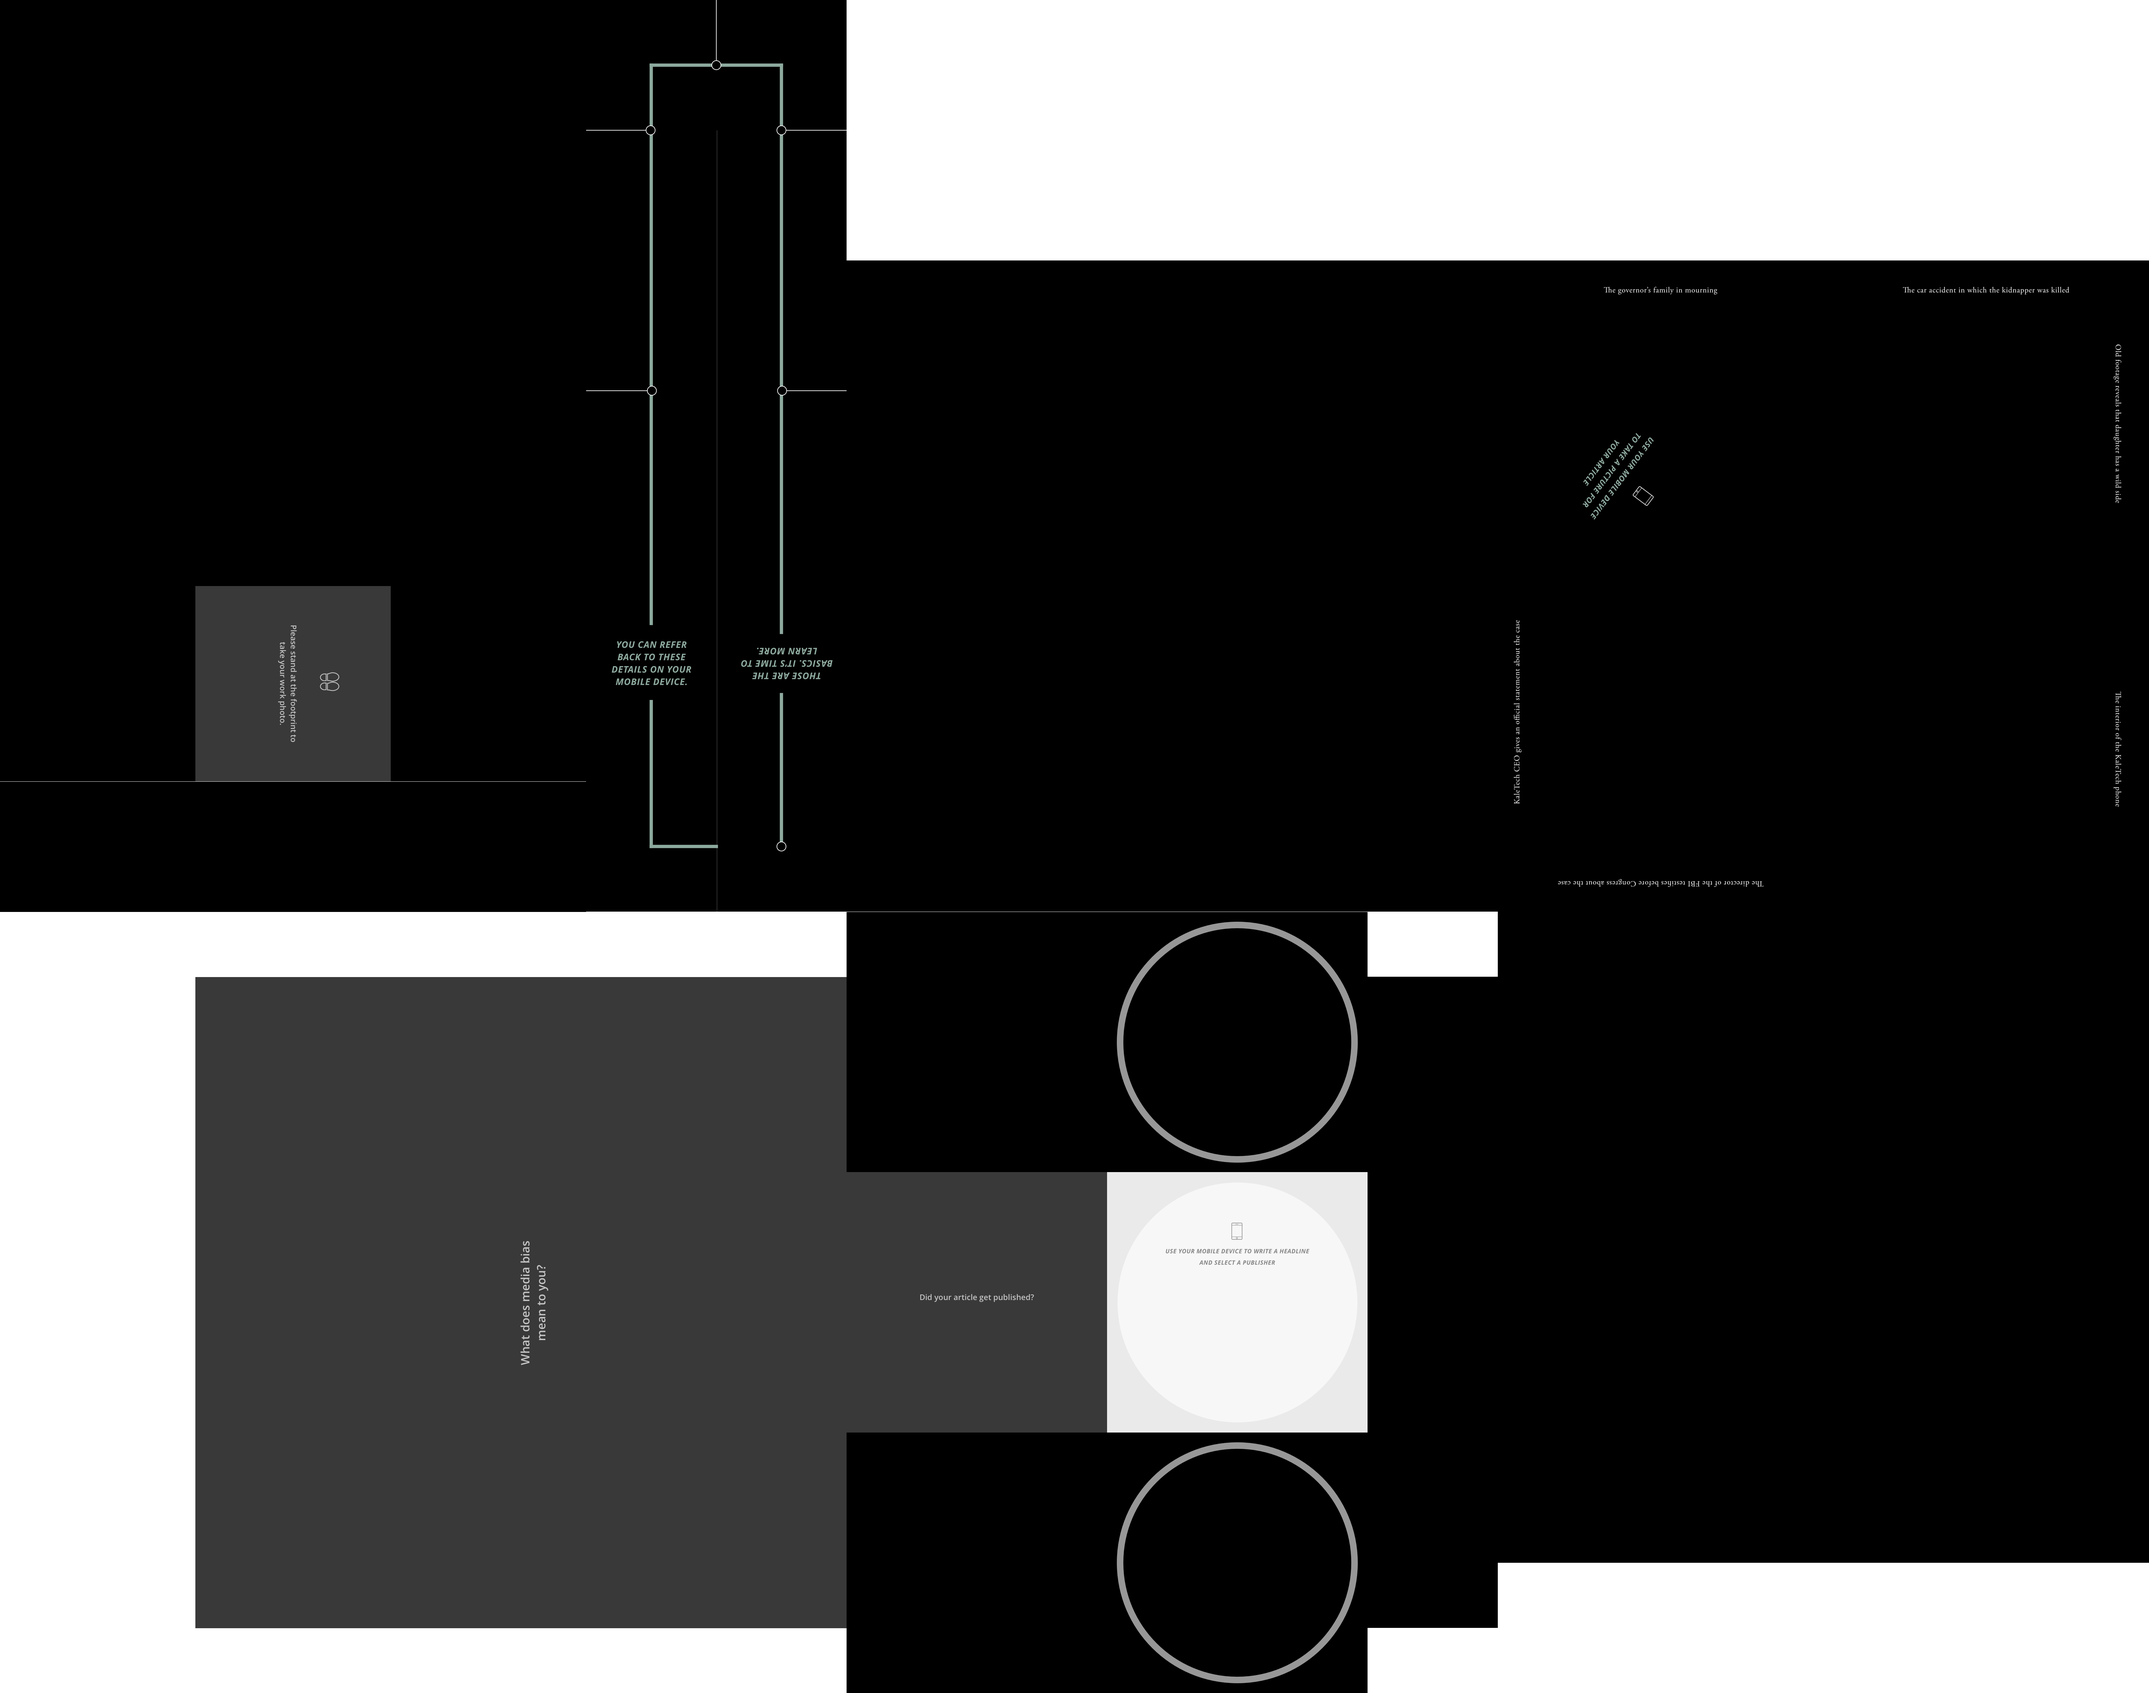
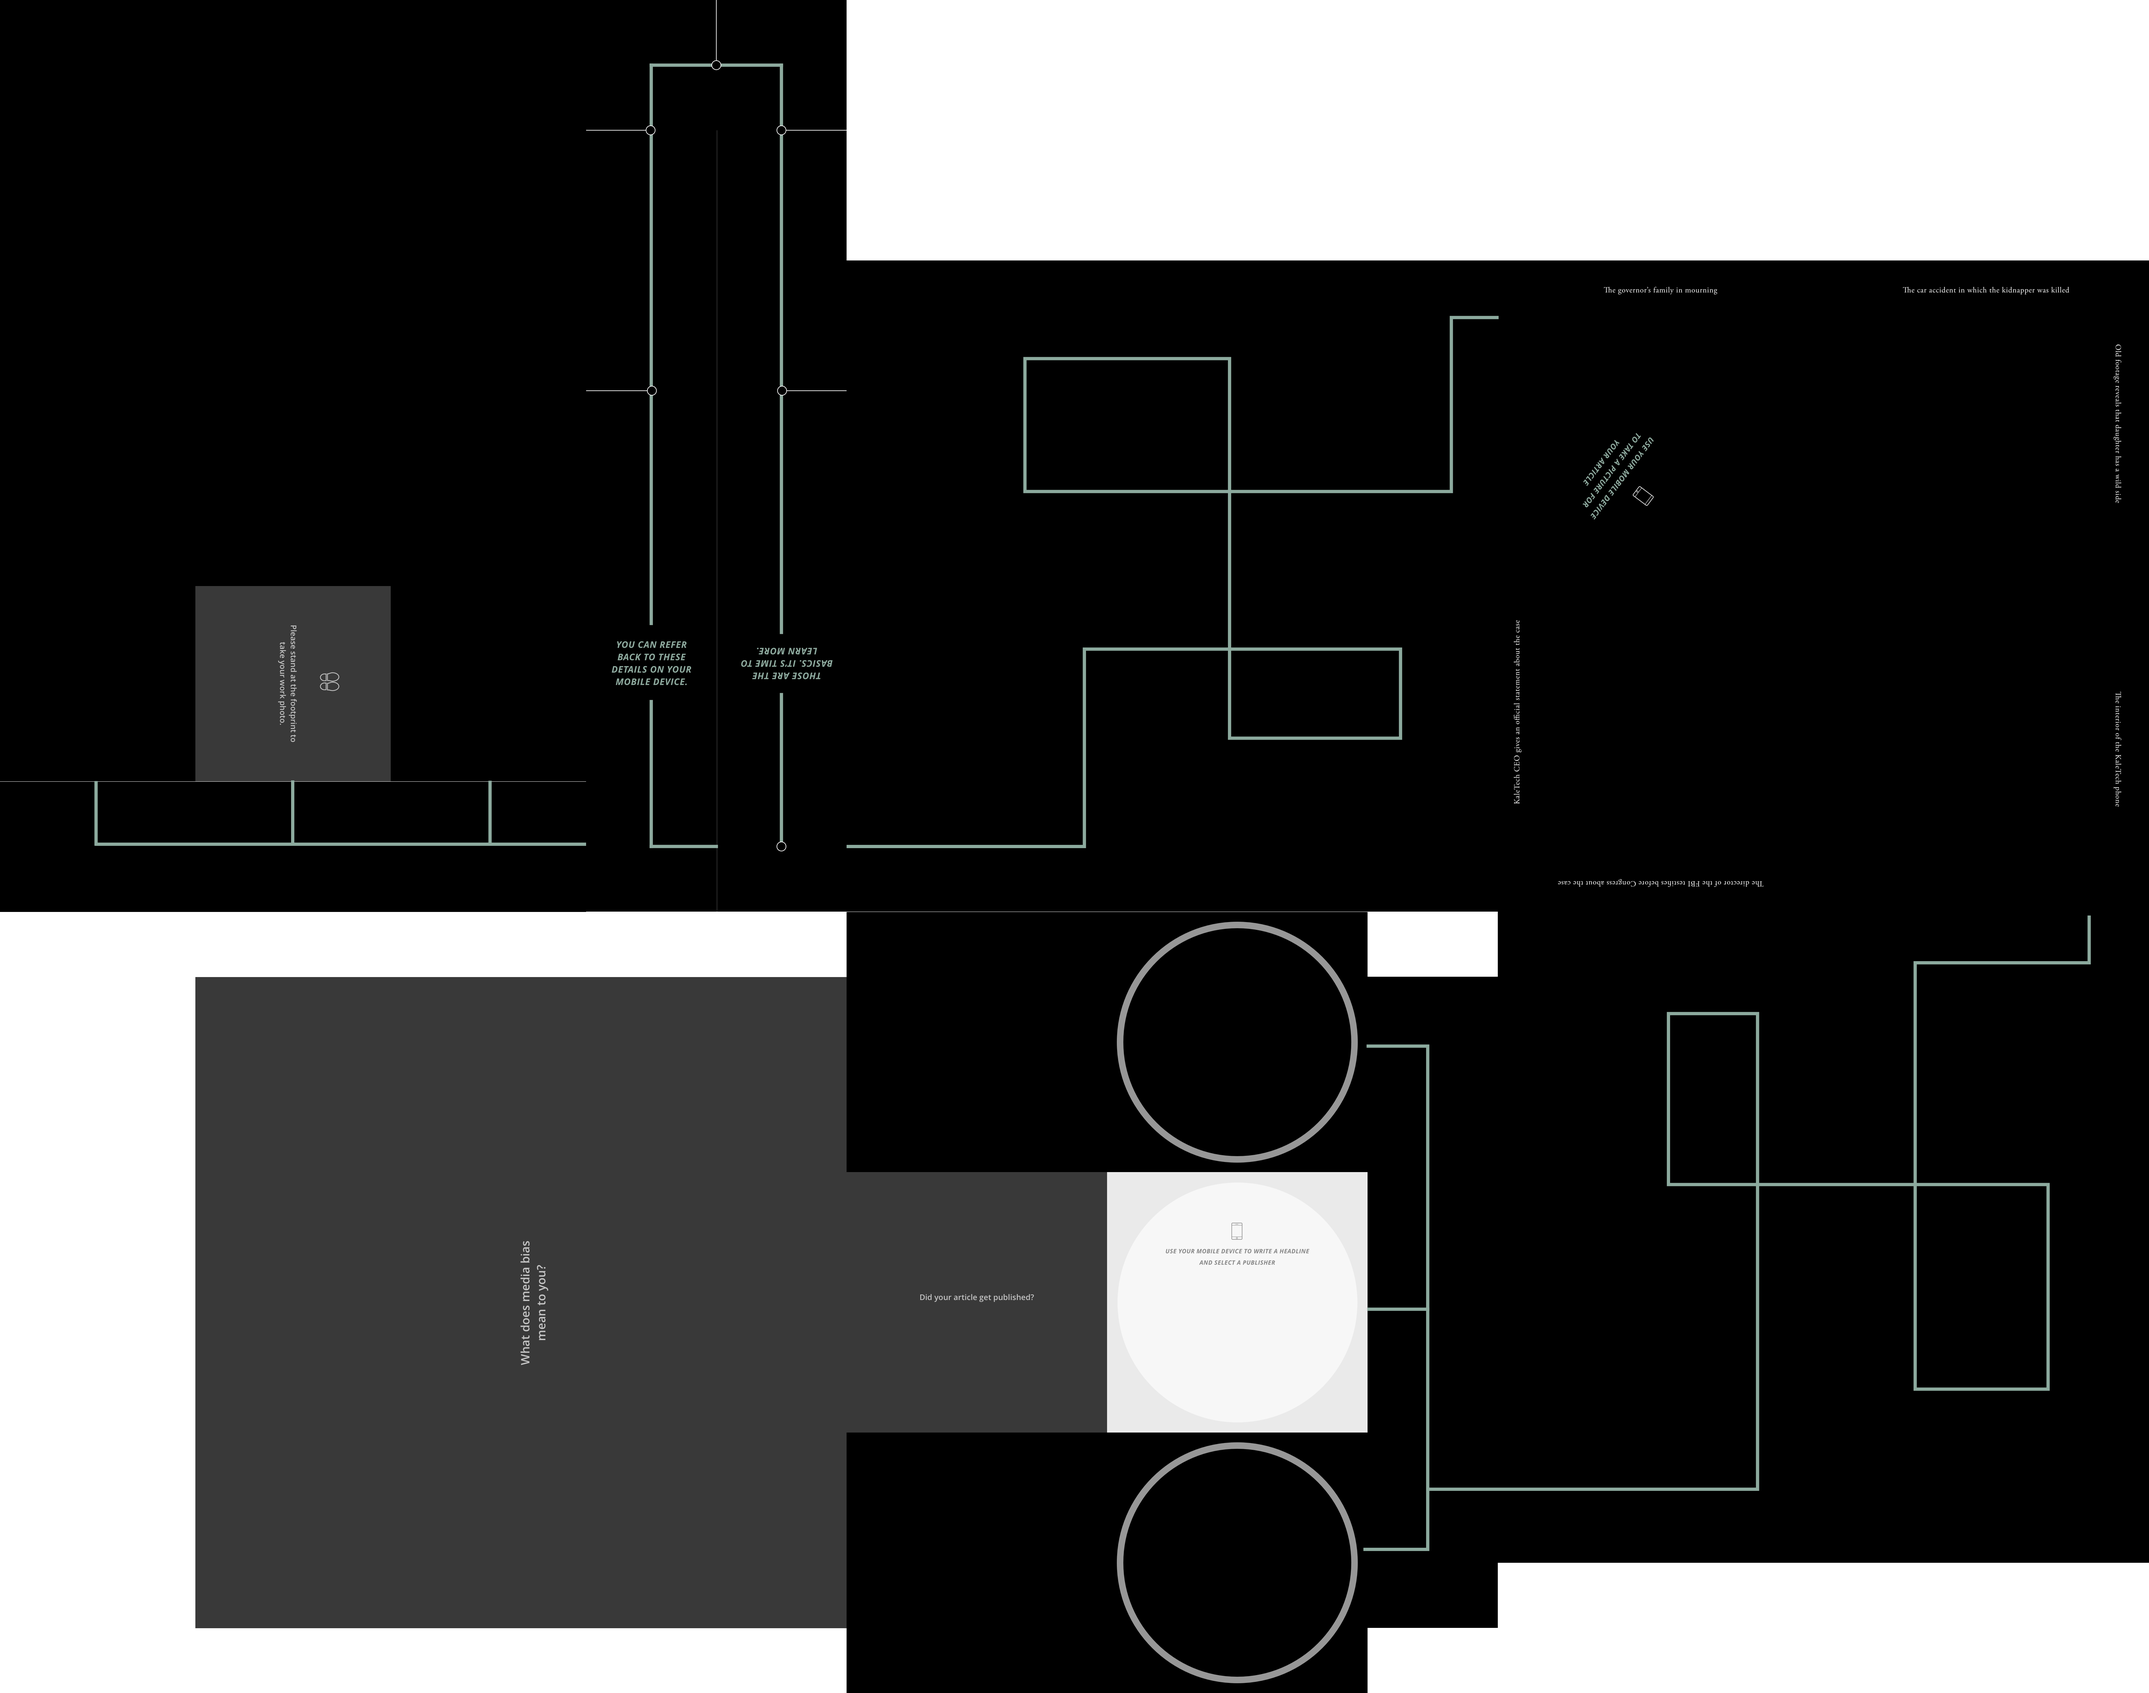
Update and add images, walkways

diff --git a/4--viewpoint.html b/4--viewpoint.html
@@ -89,13 +89,13 @@
       <!-- Room: Walkway -->
       <a-entity position="10 0 2.5" rotation="0 -90 0" visible="true">
          <!-- Left -->
-         <a-plane height="4" width="2" position="-4.5 2 0" rotation="0 90 0" src="assets/4/white.png"></a-plane>
+         <a-plane height="4" width="2" position="-4.5 2 0" rotation="0 90 0" src="assets/4/walkway-wall-short-door.jpg"></a-plane>
          <!-- Back -->
-         <a-plane height="4" width="9" position="0 2 -1" src="assets/4/white.png"></a-plane>
+         <a-plane height="4" width="9" position="0 2 -1" src="assets/4/walkway-wall-long.jpg"></a-plane>
          <!-- Right -->
-         <a-plane height="4" width="2" position="4.5 2 0" rotation="0 -90 0" src="assets/4/white.png"></a-plane>
+         <a-plane height="4" width="2" position="4.5 2 0" rotation="0 -90 0" src="assets/4/walkway-wall-short.jpg"></a-plane>
          <!-- Front -->
-         <a-plane height="4" width="9" position="0 2 1" rotation="0 180 0" src="assets/4/white.png"></a-plane>
+         <a-plane height="4" width="9" position="0 2 1" rotation="0 180 0" src="assets/4/walkway-wall-long.jpg"></a-plane>
       </a-entity>
 
       <!-- Room: Story -->
@@ -161,15 +161,15 @@
       </a-entity>
 
       <!-- Room: Walkway 2 -->
-      <a-entity position="16.5 0 -15" rotation="0 180 0" visible="true">
+      <a-entity position="17 0 -15" rotation="0 180 0" visible="true">
          <!-- Left -->
-         <a-plane height="4" width="2" position="-4.5 2 0" rotation="0 90 0" src="assets/4/white.png"></a-plane>
+         <a-plane height="4" width="2" position="-5 2 0" rotation="0 90 0" src="assets/4/walkway-wall-short.jpg"></a-plane>
          <!-- Back -->
-         <a-plane height="4" width="9" position="0 2 -1" src="assets/4/white.png"></a-plane>
+         <a-plane height="4" width="10" position="0 2 -1" src="assets/4/walkway-wall-long-doors.jpg"></a-plane>
          <!-- Right -->
-         <a-plane height="4" width="2" position="4.5 2 0" rotation="0 -90 0" src="assets/4/white.png"></a-plane>
+         <a-plane height="4" width="2" position="5 2 0" rotation="0 -90 0" src="assets/4/walkway-wall-short.jpg"></a-plane>
          <!-- Front -->
-         <a-plane height="4" width="9" position="0 2 1" rotation="0 180 0" src="assets/4/white.png"></a-plane>
+         <a-plane height="4" width="10" position="0 2 1" rotation="0 180 0" src="assets/4/walkway-wall-long-door.jpg"></a-plane>
       </a-entity>
 
       <!-- Room: Headline -->
